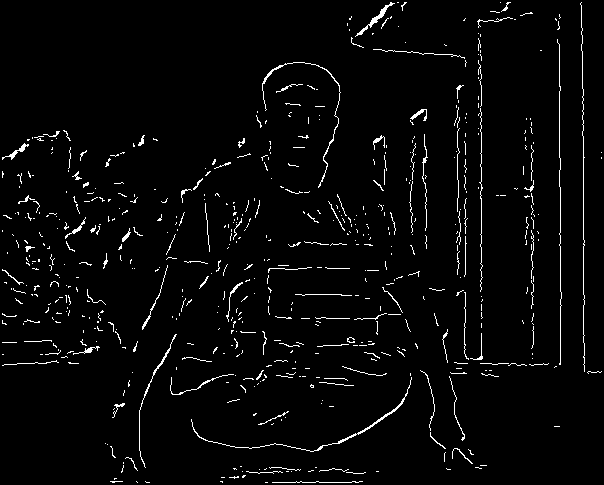
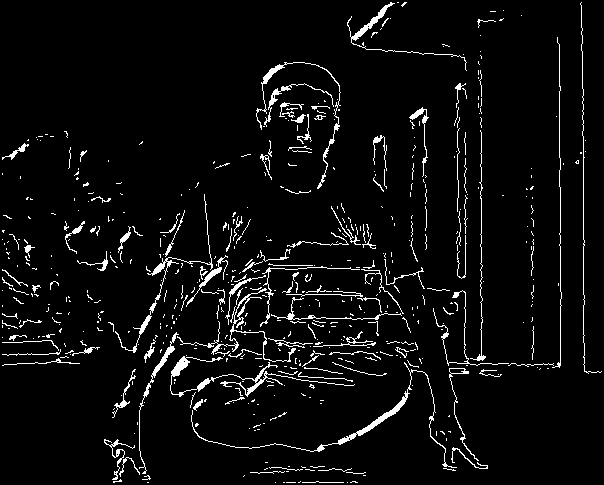
v.0.4.2 avg value avg gradient in sector and drop gradient where current < avg * koefficient

diff --git a/CannyProject/CannyProject/Canny.cs b/CannyProject/CannyProject/Canny.cs
@@ -333,22 +333,20 @@ namespace CannyProject
             {
                 for (var j = 0; j <= (ObjInputImage.Height - 1) - specHeight; j += specStep)
                 {
-                    var max = gradient[i, j];
+                    float total = 0;
                     for (var si = i; si <= i+specWidth; si++)
                     {
                         for (var sj = j; sj <= j+specHeight; sj++)
                         {
-                            if (gradient[si, sj] > max)
-                            {
-                                max = gradient[si, sj];
-                            }
+                            total += gradient[si, sj];
                         }
                     }
+                    var avg = total/(specWidth*specHeight);
                     for (var si = 0; si <= specWidth; si++)
                     {
                         for (var sj = 0; sj <= specHeight; sj++)
                         {
-                            SpecialMatrix[i + si, j + sj] += max;
+                            SpecialMatrix[i + si, j + sj] += avg;
                             SpecialMatrix2[i + si, j + sj] += 1;
                         }
                     }
